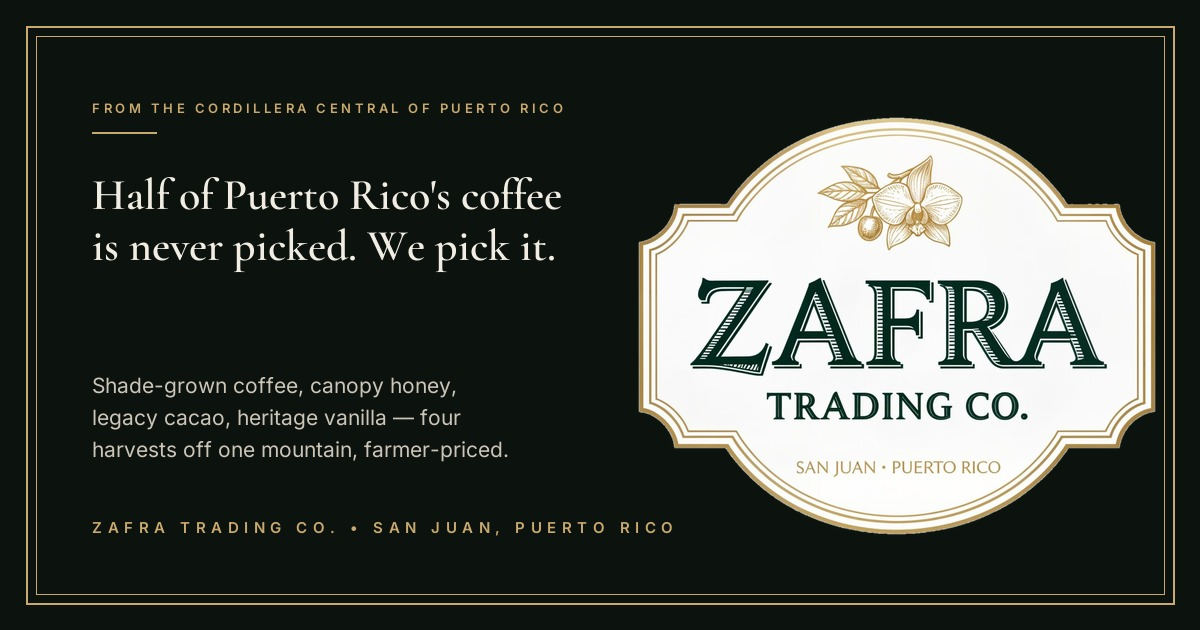
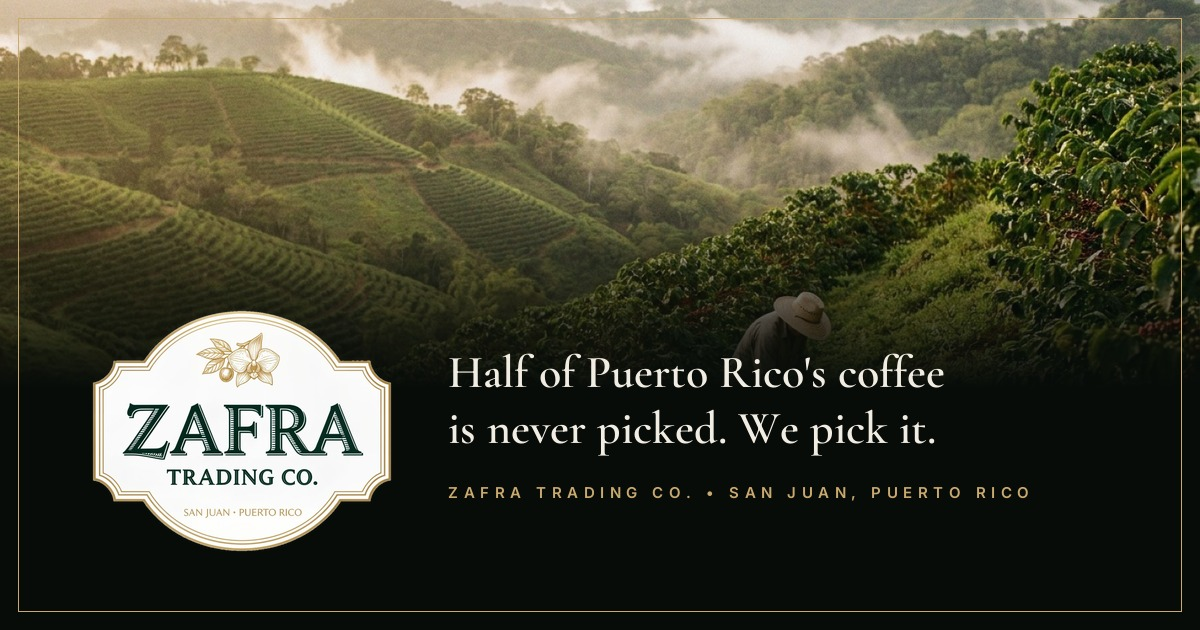
OG v3: hero photo + shield share card; new og-card.jpg URL to bust chat caches

diff --git a/index.html b/index.html
@@ -182,13 +182,13 @@ img{opacity:1}
 <meta property="og:description" content="Hand-picked heirloom Arabica from the Cordillera Central, with the price paid to the farmer printed on every bag. First lots Spring 2027.">
 <meta property="og:type" content="website">
 <meta property="og:url" content="https://zafratrading.com/">
-<meta property="og:image" content="https://zafratrading.com/images/og-image.jpg">
+<meta property="og:image" content="https://zafratrading.com/images/og-card.jpg">
 <meta property="og:image:width" content="1200">
 <meta property="og:image:height" content="630">
 <meta name="twitter:card" content="summary_large_image">
 <meta name="twitter:title" content="Zafra Trading Co. — Half of Puerto Rico's coffee is never picked. We pick it.">
 <meta name="twitter:description" content="Hand-picked heirloom Arabica from the Cordillera Central, with the price paid to the farmer printed on every bag. First lots Spring 2027.">
-<meta name="twitter:image" content="https://zafratrading.com/images/og-image.jpg">
+<meta name="twitter:image" content="https://zafratrading.com/images/og-card.jpg">
 </head>
 <body>
 

diff --git a/brand/gen_og_v3.py b/brand/gen_og_v3.py
@@ -1,0 +1,79 @@
+#!/usr/bin/env python3
+"""Zafra house OG card — v3 (JC Nov 22): full-bleed hero photo + house shield.
+Kills the old logo-showcase card. Also writes og-image.jpg (same bytes) so
+stale page caches pointing at the old URL serve the new design too."""
+from PIL import Image, ImageDraw, ImageFont, ImageStat
+
+W, H = 1200, 630
+GOLD = (201, 169, 110)
+CREAM = (242, 237, 227)
+F = '/tmp/zafra-deploy/fonts/'
+serif_sb = lambda s: ImageFont.truetype(F + 'f1.ttf', s)   # Cormorant SemiBold
+sans_sb = lambda s: ImageFont.truetype(F + 'f3.ttf', s)    # Inter SemiBold
+
+# --- hero photo: cover-crop 1600x893 -> 1200x630 (keep the land, trim sky) ---
+src = Image.open('/Users/santiago/repos/zafra-site/images/hero-zafra.jpg')
+sw, sh = src.size                      # 1600x893
+target_ratio = W / H                   # 1.9048
+crop_h = round(sw / target_ratio)      # 840
+y0 = 40                                # trim sky-side, keep mountain+land
+img = src.crop((0, y0, sw, y0 + crop_h)).resize((W, H), Image.Resampling.LANCZOS).convert('RGB')
+
+# --- bottom scrim: black gradient, opaque at bottom edge, gone by ~42% height ---
+scrim = Image.new('L', (1, H), 0)
+for y in range(H):
+    t = (y - int(H * 0.30)) / (H * 0.70)
+    scrim.putpixel((0, y), int(255 * min(1.0, max(0.0, t) / 0.45) ** 0.9))
+img.paste(Image.new('RGB', (W, H), (8, 12, 9)), (0, 0), scrim.resize((W, H)))
+d = ImageDraw.Draw(img)
+
+# --- house shield, bottom-left ---
+seal = Image.open('/Users/santiago/repos/zafra-site/images/zafra-logo-shield.png').convert('RGBA')
+SW = 300
+seal = seal.resize((SW, round(SW * seal.height / seal.width)), Image.Resampling.LANCZOS)
+LX, LY = 92, H - 78 - seal.height
+img.paste(seal, (LX, LY), seal)
+
+# --- text block, right of the shield ---
+TX = LX + SW + 56
+
+def tracked(xy, text, font, fill, track=5):
+    x, y = xy
+    for ch in text:
+        d.text((x, y), ch, font=font, fill=fill)
+        x += d.textlength(ch, font=font) + track
+    return x - track
+
+# headline (the site hero's own line)
+h1a, h1b = "Half of Puerto Rico's coffee", 'is never picked. We pick it.'
+f_head = None
+for size in (46, 42, 38, 34):
+    cand = serif_sb(size)
+    if all(d.textlength(line, font=cand) <= W - TX - 64 for line in (h1a, h1b)):
+        f_head, h_size = cand, size
+        break
+assert f_head, 'headline does not fit'
+hy = LY + 34
+d.text((TX, hy), h1a, font=f_head, fill=CREAM)
+d.text((TX, hy + round(h_size * 1.22)), h1b, font=f_head, fill=CREAM)
+
+# footer caps
+ft = 'ZAFRA TRADING CO. \u2022 SAN JUAN, PUERTO RICO'
+fw = tracked((TX, hy + round(h_size * 2.62) + 18), ft, sans_sb(15), GOLD, 5.5)
+
+# --- thin gold frame, house style ---
+d.rectangle([18, 18, W - 19, H - 19], outline=GOLD, width=1)
+
+img.save('/Users/santiago/repos/zafra-site/images/og-card.jpg', quality=92)
+img.save('/Users/santiago/repos/zafra-site/images/og-image.jpg', quality=92)
+
+# --- numeric QA (measured, not eyeballed) ---
+g = img.convert('L')
+band = g.crop((TX, hy, TX + int(d.textlength(h1a, font=f_head)), hy + round(h_size * 2.6)))
+m = ImageStat.Stat(band).mean[0]
+contrast = (242 + 0.05) / (m + 0.05)          # cream vs local bg
+print(f'headline size {h_size}px | footer right edge {int(fw)} (limit {W - 64}) | '
+      f'text-zone luminance {m:.1f} | cream contrast {contrast:.1f}:1 | seal at ({LX},{LY})')
+assert contrast >= 4.5, 'text contrast below 4.5:1'
+assert fw <= W - 64, 'footer overflows frame'
+print('OK: og-card.jpg + og-image.jpg written')
